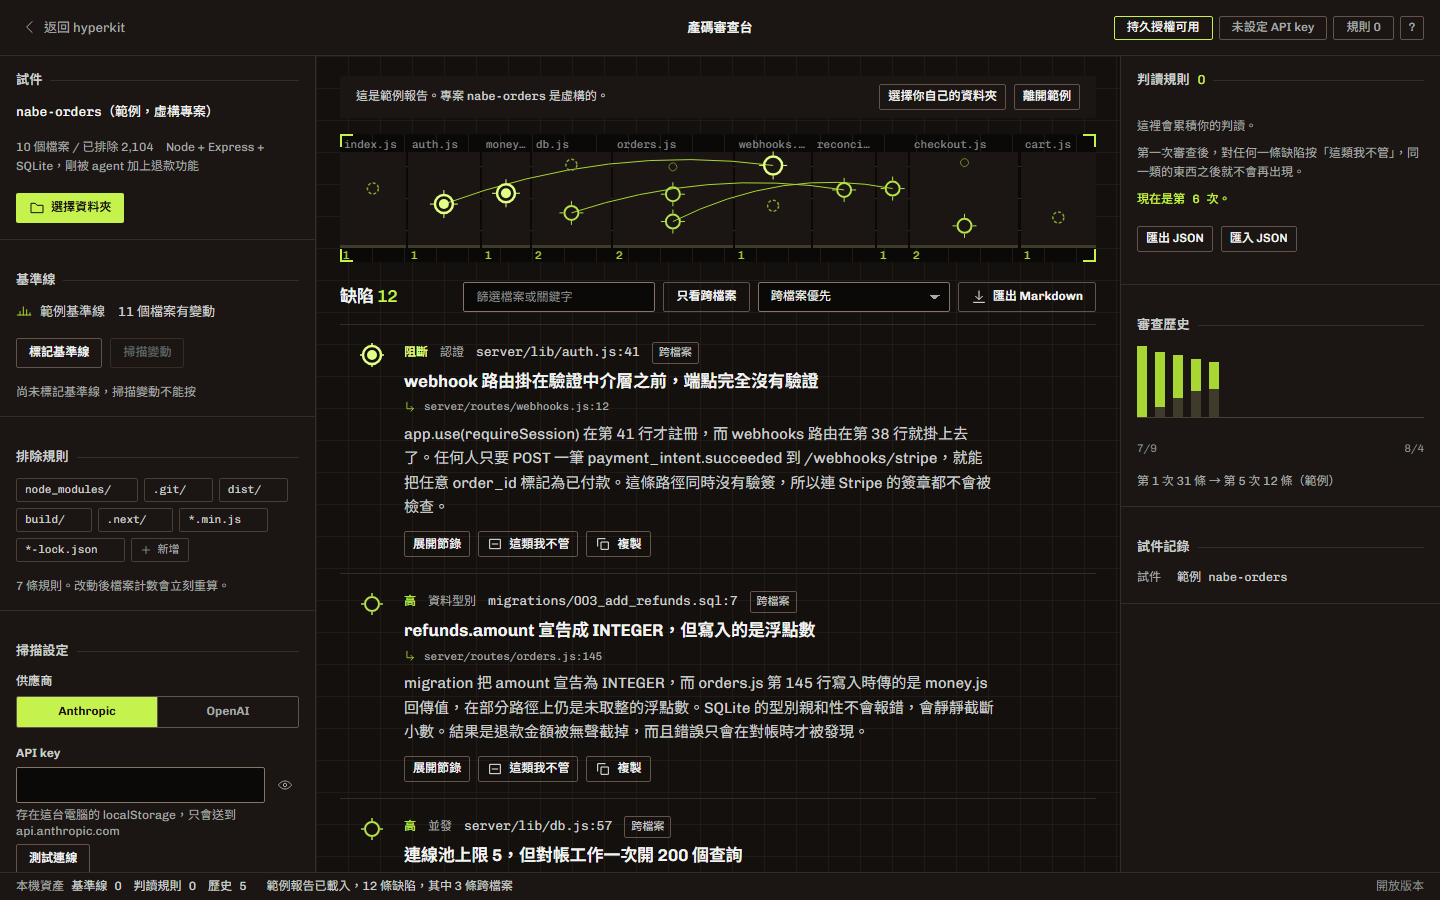
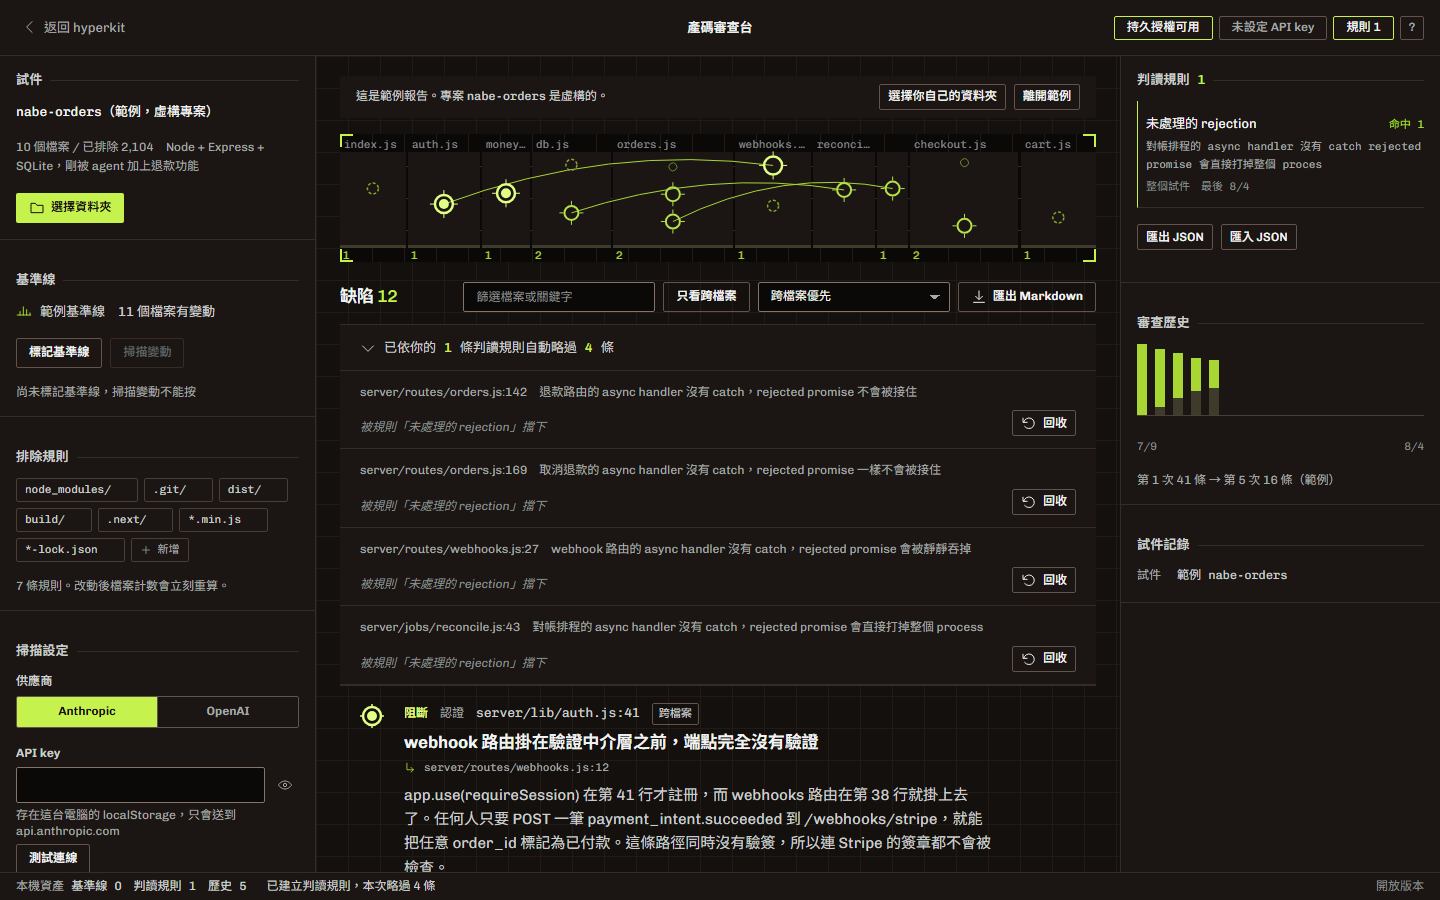
Make the false-positive memory pay off on the first visit, and fix the hub crop
The dismissal mechanic is what separates this from asking the agent directly —
an agent starts from zero every time. It was already fully wired in the sample
report: no API key needed, and the rule builder shows how many findings the
rule will suppress before you commit it. But the sample's 12 findings were
spread across 10 categories, so that number was always 1. Nobody could feel
"one click clears a batch", which is the only reason the mechanic is worth
anything.

Added four findings of one class — an async handler with no catch, repeated at
every new entry point the agent touched while adding refunds. That is what LLM
output actually looks like: consistently wrong in the same way. Wording varies
between them the way real model output varies; verified the normalised token
overlap sits at 0.727–0.8 against a 0.6 threshold, so any one of them seeds a
rule that catches all four, with zero false hits on the other twelve. Run
history, token counts and cost were re-derived rather than nudged.

Separately, a real bug in the hub I wrote: .frame is 443x690 portrait at a
1440 viewport, the previews are 1440x900 landscape, and object-fit: cover
scales by the larger ratio — every one of the eight previews was showing only
its left 40%, which for most tools is the settings rail. The frame now carries
its own 16:10 ratio and centres, the image is contained rather than cropped,
and the preview column widened to 43%. On mobile the fixed 34dvh height had to
[…]

diff --git a/diff-warden/js/sample.js b/diff-warden/js/sample.js
@@ -1,7 +1,9 @@
 /* sample.js — 範例報告。
    專案 nabe-orders 是虛構的：一個小型訂單後台（Node + Express + SQLite，前端 vanilla JS），
    10 個檔案，剛被 agent 加上退款功能。這是接案者會遇到的真實形狀。
-   12 條缺陷、3 條跨檔案、四個嚴重度都有。節錄是真的程式碼片段。 */
+   16 條缺陷、3 條跨檔案、四個嚴重度都有。節錄是真的程式碼片段。
+   其中 4 條是同一個類別（未處理的 rejection）：agent 在每一個新加的 async 進入點都套了同一個
+   壞掉的錯誤處理寫法。這是 LLM 產碼最典型的成群問題，也是「標一次擋一批」唯一看得見的地方。 */
 
 export const SAMPLE_PROJECT = 'nabe-orders';
 
@@ -95,6 +97,73 @@ export const SAMPLE_DEFECTS = [
       L(87, '  WHERE customer_id = ?'),
       L(88, '  ORDER BY ${req.query.sort}'),
       L(89, '`, [req.session.customerId]);'),
+    ],
+  },
+  /* ---- 同一個類別的一批：agent 加退款功能時，四個新的 async 進入點都是同一個寫法。
+     措辭有自然的變異，但核心詞彙一致，所以一條判讀規則就會把四條一起擋掉。 ---- */
+  {
+    file: 'server/routes/orders.js', line: 142, severity: 'high', category: '未處理的 rejection',
+    title: '退款路由的 async handler 沒有 catch，rejected promise 不會被接住',
+    why: 'Express 4 不會接住 async handler 回傳的 rejected promise。'
+       + 'DB 連線被對帳工作吃光時，第 145 行的 INSERT 會 reject，而這之後沒有人再碰這個請求：'
+       + 'res 永遠不會被寫入，連線一直掛在那裡，直到 client 自己 timeout。'
+       + '同時錯誤既不會進 errorHandler 也不會進 stdout，所以「一筆退款沒寫進去」這件事，你完全不會知道發生過。',
+    related: [],
+    excerpt: [
+      L(142, "router.post('/:id/refund', async (req, res) => {"),
+      L(143, '  const order = await getOrder(req.params.id);'),
+      L(144, '  const cents = toCents(req.body.amount);'),
+      L(145, "  await db.run('INSERT INTO refunds (order_id, amount) VALUES (?, ?)', [order.id, cents]);"),
+      L(146, '  res.json({ ok: true });'),
+      L(147, '});'),
+    ],
+  },
+  {
+    file: 'server/routes/orders.js', line: 169, severity: 'medium', category: '未處理的 rejection',
+    title: '取消退款的 async handler 沒有 catch，rejected promise 一樣不會被接住',
+    why: '跟建立退款那條同一個寫法：Express 4 不會接住 async handler 回傳的 rejected promise。'
+       + '這條更麻煩的是它有兩個 await：金流商那邊已經 void 掉了，但第 172 行的 UPDATE 如果 reject，'
+       + 'refunds 這筆就永遠停在 pending。前端看到的是逾時，客服看到的是一筆卡住的退款，兩邊都沒有錯誤訊息可查。',
+    related: [],
+    excerpt: [
+      L(169, "router.post('/:id/refund/cancel', async (req, res) => {"),
+      L(170, '  const refund = await getRefund(req.params.id);'),
+      L(171, '  await gateway.voidRefund(refund.gatewayId);'),
+      L(172, "  await db.run('UPDATE refunds SET status = ? WHERE id = ?', ['void', refund.id]);"),
+      L(173, '  res.json({ ok: true });'),
+      L(174, '});'),
+    ],
+  },
+  {
+    file: 'server/routes/webhooks.js', line: 27, severity: 'high', category: '未處理的 rejection',
+    title: 'webhook 路由的 async handler 沒有 catch，rejected promise 會被靜靜吞掉',
+    why: 'Express 4 不會接住 async handler 回傳的 rejected promise，Stripe 那一端只看得到逾時。'
+       + '收不到 2xx 的 Stripe 會重送同一個 event，而第 48 行沒有做 event id 去重，'
+       + '所以每一次 DB 抖動都會變成倉庫多出一張出貨單。這兩條單獨看都還好，湊在一起才是會賠錢的那種。',
+    related: [],
+    excerpt: [
+      L(27, "router.post('/stripe', async (req, res) => {"),
+      L(28, '  const event = JSON.parse(req.body);'),
+      L(29, '  await recordEvent(event);'),
+      L(30, '  res.json({ received: true });'),
+      L(31, '});'),
+    ],
+  },
+  {
+    file: 'server/jobs/reconcile.js', line: 43, severity: 'high', category: '未處理的 rejection',
+    title: '對帳排程的 async handler 沒有 catch，rejected promise 會直接打掉整個 process',
+    why: 'Express 4 不會接住 rejected promise，至少還有一個請求會掛著；setInterval 連掛著都沒有。'
+       + 'Node 15 之後 unhandledRejection 的預設行為是直接讓 process 以非零碼退出，'
+       + '所以對帳跑到一半遇到一次 DB timeout，整個伺服器就沒了。pm2 會把它拉起來，下一分鐘再跑同一批、再倒一次，'
+       + '在日誌裡看起來像是「伺服器每小時隨機重啟」，而真正的原因就在這幾行。',
+    related: [],
+    excerpt: [
+      L(38, '// 每分鐘對一次帳'),
+      L(39, 'async function handleTick() {'),
+      L(40, '  await reconcileAll();'),
+      L(41, '}'),
+      L(42, ''),
+      L(43, 'setInterval(handleTick, 60_000);'),
     ],
   },
   {
@@ -199,11 +268,11 @@ export const SAMPLE_DEFECTS = [
 
 /** 示範用的歷史刻痕（明確標示為範例） */
 export const SAMPLE_RUNS = [
-  { id: 'demo:1', at: Date.now() - 26 * 864e5, count: 31, suppressed: 0,  cost: 0.28, model: 'claude-sonnet-5' },
-  { id: 'demo:2', at: Date.now() - 19 * 864e5, count: 24, suppressed: 4,  cost: 0.24, model: 'claude-sonnet-5' },
-  { id: 'demo:3', at: Date.now() - 12 * 864e5, count: 19, suppressed: 8,  cost: 0.21, model: 'claude-sonnet-5' },
-  { id: 'demo:4', at: Date.now() - 5 * 864e5,  count: 14, suppressed: 11, cost: 0.19, model: 'claude-sonnet-5' },
-  { id: 'demo:5', at: Date.now(),              count: 12, suppressed: 12, cost: 0.17, model: 'claude-sonnet-5' },
+  { id: 'demo:1', at: Date.now() - 26 * 864e5, count: 41, suppressed: 0,  cost: 0.31, model: 'claude-sonnet-5' },
+  { id: 'demo:2', at: Date.now() - 19 * 864e5, count: 33, suppressed: 5,  cost: 0.27, model: 'claude-sonnet-5' },
+  { id: 'demo:3', at: Date.now() - 12 * 864e5, count: 26, suppressed: 10, cost: 0.23, model: 'claude-sonnet-5' },
+  { id: 'demo:4', at: Date.now() - 5 * 864e5,  count: 19, suppressed: 14, cost: 0.19, model: 'claude-sonnet-5' },
+  { id: 'demo:5', at: Date.now(),              count: 16, suppressed: 16, cost: 0.13, model: 'claude-sonnet-5' },
 ];
 
-export const SAMPLE_USAGE = { inTok: 44800, outTok: 3120, cost: 0.12 };
+export const SAMPLE_USAGE = { inTok: 44800, outTok: 4160, cost: 0.13 };

diff --git a/css/hub.css b/css/hub.css
@@ -117,7 +117,7 @@ body {
 
 .bench {
   display: grid;
-  grid-template-columns: minmax(0, 1fr) clamp(300px, 38%, 620px);
+  grid-template-columns: minmax(0, 1fr) clamp(300px, 43%, 700px);
   min-height: 0;
 }
 
@@ -217,14 +217,24 @@ body {
 
 .viewport {
   display: grid;
-  grid-template-rows: minmax(0, 1fr) auto;
+  /* 兩行都是內容高度，才能讓「框 + 註記」當成一個群組一起垂直置中；
+     用 1fr 的話框會撐滿，註記被推到欄底，中間空出一大塊。 */
+  grid-template-rows: auto auto;
+  align-content: center;
   padding: clamp(1rem, 2vw, 2rem) var(--pad-x) clamp(.75rem, 1.4vw, 1.1rem);
   min-height: 0;
   gap: .7rem;
 }
 
+/* 預覽圖是 1440x900 的橫式截圖，而這一欄是直式的。原本 object-fit: cover 配上直式
+   容器，縮放會由高度決定，橫向溢出後從左切齊——八張圖全部只顯示了左邊 40%，
+   等於固定拿三分之一畫面去展示每個工具的左側欄。改成讓框自己是 16:10 並垂直置中，
+   圖就完整進得去；上下的留白由 hairline 的結構吸收，那本來就是這個櫃體的語言。 */
 .frame {
   position: relative;
+  aspect-ratio: 16 / 10;
+  align-self: center;
+  width: 100%;
   min-height: 0;
   border: 1px solid var(--hairline-strong);
   background: color-mix(in srgb, var(--fg) 3%, transparent);
@@ -236,8 +246,8 @@ body {
 .shot {
   position: absolute; inset: 0;
   width: 100%; height: 100%;
-  object-fit: cover;
-  object-position: top left;
+  object-fit: contain;
+  object-position: center;
   clip-path: inset(0 100% 0 0);
   will-change: clip-path;
 }
@@ -321,12 +331,14 @@ kbd {
 
   .bench { grid-template-columns: 1fr; }
 
-  /* 手機沒有 hover：預覽視窗黏在上方，捲動索引就是換世界的動作 */
+  /* 手機沒有 hover：預覽視窗黏在上方，捲動索引就是換世界的動作。
+     高度交給 aspect-ratio 的框自己決定——寫死 34dvh 的話，窄螢幕下框會比容器高，
+     底下那行註記就被壓在圖上。 */
   .viewport {
     position: sticky;
     top: 0;
     z-index: 2;
-    height: 34dvh;
+    height: auto;
     background: var(--bg);
     border-bottom: 1px solid var(--hairline);
     padding-bottom: .5rem;
@@ -351,7 +363,6 @@ kbd {
 }
 
 @media (max-width: 560px) {
-  .viewport { height: 28dvh; }
   .status-zh { font-size: 12px; }
 }
 

diff --git a/diff-warden/css/style.css b/diff-warden/css/style.css
@@ -482,6 +482,14 @@ select.input option { background: var(--panel); color: var(--fg); }
 .confirm label { display: flex; gap: var(--s-4); align-items: baseline; font-size: var(--t-ui-sm-size); color: var(--fg-2); }
 .confirm label input { accent-color: var(--accent); }
 .confirm code { font-family: var(--font-mono); font-size: var(--t-mono-sm-size); color: var(--fg-3); }
+/* 「會擋掉 N 條」：N 一律用等寬數字。三條以上時整行升一階、數字轉 accent 並放大，
+   因為那一刻是使用者第一次看到「標一次擋一批」。這是排版強度，不是新元件。 */
+.confirm .confirm-n { font-family: var(--font-mono); font-weight: 700; font-variant-numeric: tabular-nums; }
+.confirm [data-preview][data-batch="1"] { color: var(--fg-2); }
+.confirm [data-preview][data-batch="1"] .confirm-n {
+  color: var(--accent); font-size: 1.55em; line-height: 1; letter-spacing: -0.01em;
+  padding: 0 0.06em;
+}
 
 .empty { padding: var(--s-12) var(--s-7); max-width: var(--measure-body); }
 .empty-h { font-size: var(--t-h3-size); font-weight: var(--t-h3-wght); margin-bottom: var(--s-5); }

diff --git a/diff-warden/js/main.js b/diff-warden/js/main.js
@@ -848,8 +848,16 @@ function openConfirm(d, node) {
   const preview = () => {
     const draft = read();
     const n = S.defects.filter((x) => ruleFor(x, [{ ...draft, fingerprint: 'draft' }])).length;
-    box.querySelector('[data-preview]').textContent =
-      `這條規則會擋掉本次結果裡的 ${n} 條（含這一條）。`;
+    // 這個數字是整條規則機制唯一看得見的證據。一次擋掉三條以上時它值得被看到，
+    // 所以把數字本身升成 accent + 大一階，其餘文字不動。不加元素、不加橫幅。
+    const p = box.querySelector('[data-preview]');
+    p.dataset.batch = n >= 3 ? '1' : '0';
+    p.textContent = '';
+    const num = document.createElement('b');
+    num.className = 'confirm-n';
+    num.textContent = String(n);
+    p.append(document.createTextNode('這條規則會擋掉本次結果裡的 '), num,
+             document.createTextNode(' 條（含這一條）。'));
   };
   box.querySelectorAll('input').forEach((i) => i.addEventListener('change', preview));
   preview();

diff --git a/diff-warden/PRODUCT.md b/diff-warden/PRODUCT.md
@@ -60,7 +60,7 @@ Greptile 2,000+ 付費客戶。人力側：Upwork 上「程式碼審查／救火
 21:49  看到 11 個變動檔案，儀器已經照變動量排好序，估 47k token，估 $0.19
 21:49  按「開始審查」
 21:50  第一條缺陷落下：webhook 路由掛在驗證中介層之前
-21:51  掃描結束。12 條，其中 3 條跨檔案。已自動略過 8 條（他上週標記過的規則）
+21:51  掃描結束。16 條，其中 3 條跨檔案。已自動略過 8 條（他上週標記過的規則）
 21:52  逐條看，把兩條「這是我刻意的」按掉，判讀規則變成 16 條
 21:55  匯出 Markdown，貼進自己的 issue tracker
 21:56  回到 Cursor，把第一條貼給 agent 說「修這個」
@@ -143,7 +143,7 @@ IndexedDB 寫入失敗時要立刻在右軌顯示，不能靜默失敗。
 
 沒有 key、沒有資料夾、不是 Chromium，都要能在十秒內看到完整的輸出長什麼樣。
 `看範例報告` 是首屏兩個按鈕之一，不是次要連結。範例報告是一份完整的、
-針對虛構但可信的小專案的 12 條缺陷清單，其中 3 條跨檔案，可以展開、可以匯出、可以按「這類我不管」
+針對虛構但可信的小專案的 16 條缺陷清單，其中 3 條跨檔案、4 條是同一類（一條規則就擋掉整批），可以展開、可以匯出、可以按「這類我不管」
 （在範例模式下按下去會示範規則怎麼建立，並明確標示這是範例）。
 
 ---
